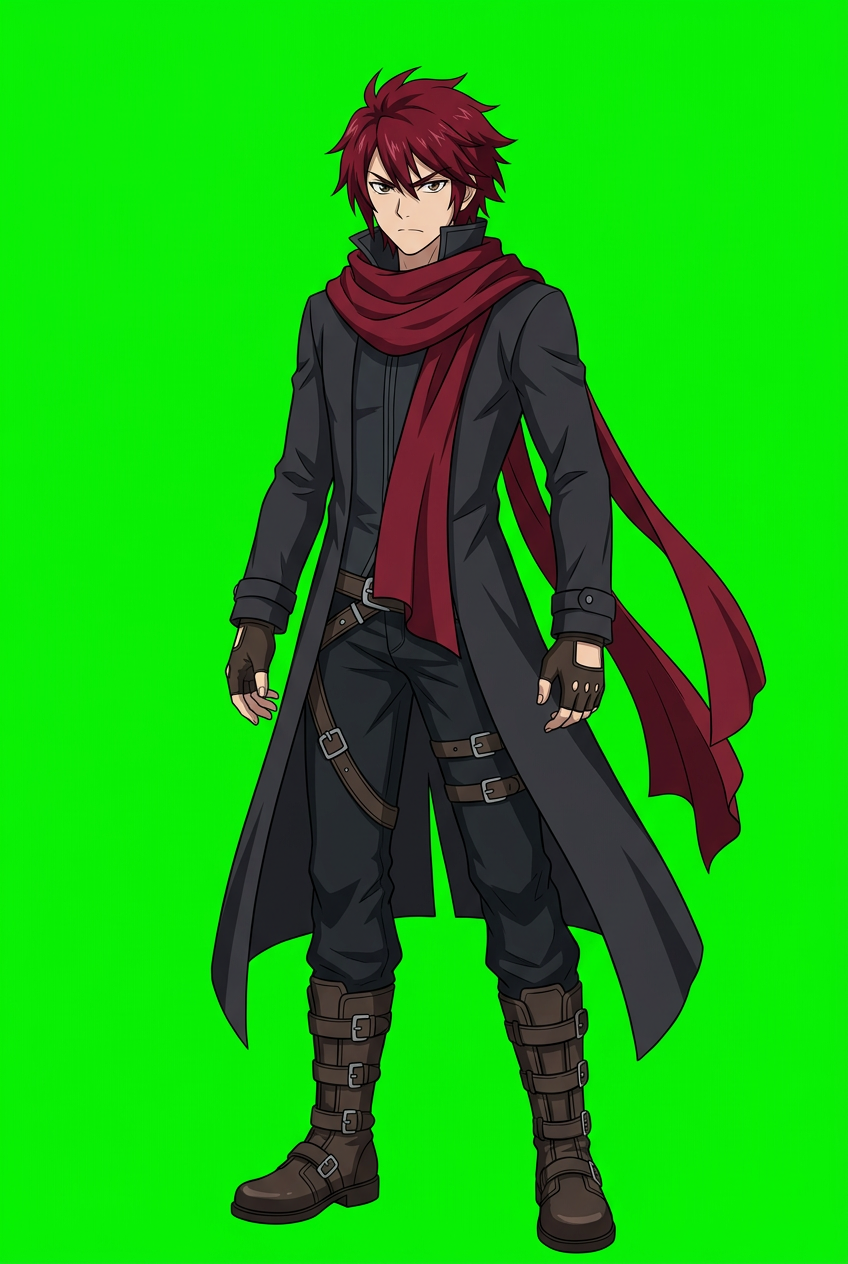
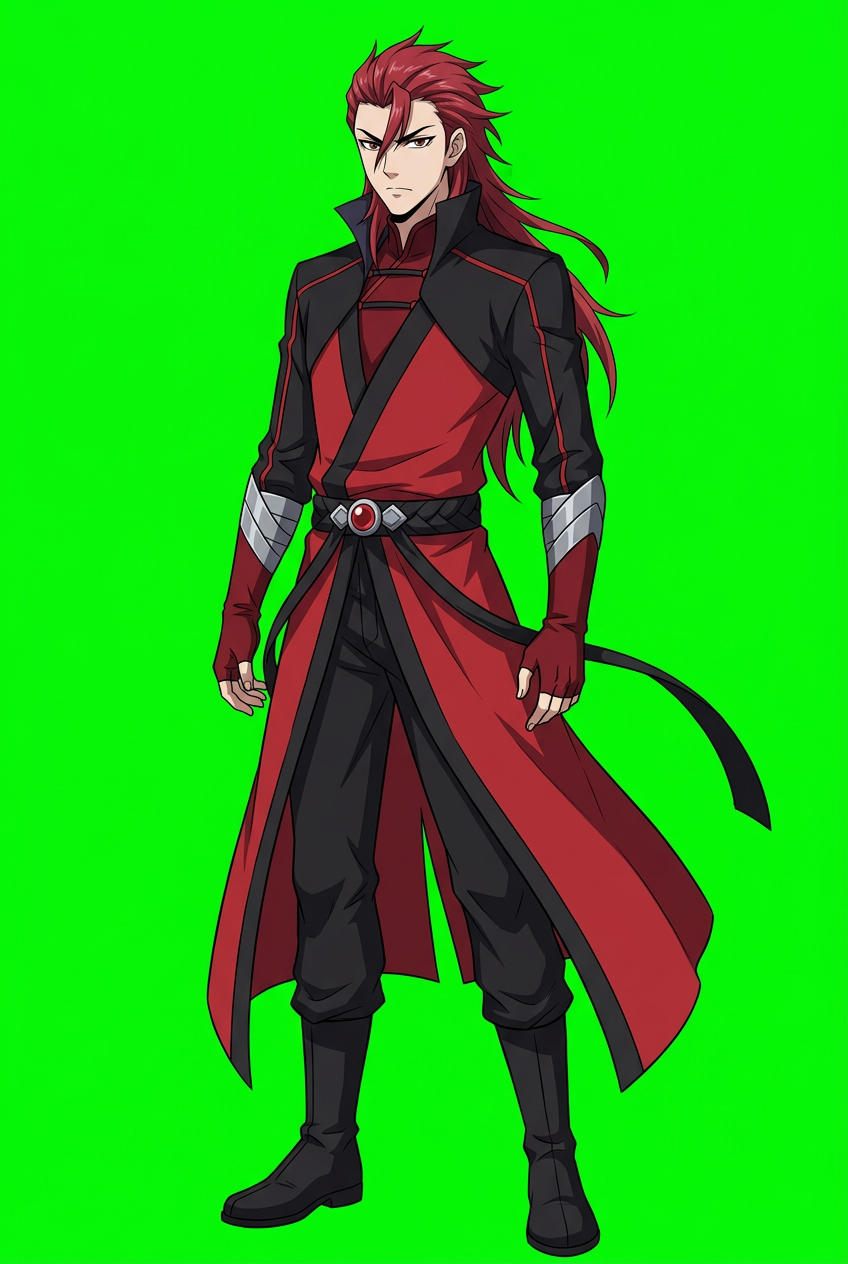
复核第3章: 吴昊按107话重画; 苏千/琥嘉/柳擎/白山/林修崖/韩月一致

Changed region(s): [[0.2453, 0.0309, 0.9198, 1.0]]

diff --git a/dev/design/漫画复核进度.md b/dev/design/漫画复核进度.md
@@ -69,6 +69,13 @@
 | 备注：美杜莎第2章人形装 | — | 88-08/09/19（refs_raw/r40） | 📌 漫画88话人形：红长发无冠、紫色短款紧身裙+白粉饰边、紫色过膝长靴、背后白色翅膀。做可玩角色分章服装时需与 B 版对比 |
 | 备注：小医仙 毒宗装 | — | 164-14（refs_raw/r40） | 📌 淡紫长发、浅粉长外套、黑色短裙+黑色过膝靴。做小医仙分章服装时使用 |
 | 备注：萧鼎 带翼 | — | 164-15 | 📌 萧鼎在164话带白色斗气翼（翅膀按用户决定做特效层） |
+| 苏千 | suqian | fandom 漫画图（105话） | ✅ 一致（灰色后梳发、八字胡、白蓝长老袍） |
+| 琥嘉 | hujia | fandom 漫画图 | ✅ 一致（橙红高马尾、蓝色外套白领、黑短裙黑长袜） |
+| 柳擎 | liuqing | fandom 漫画图（141话） | ✅ 一致（淡金发、白袍藏青外套） |
+| 白山 | baishan | fandom 漫画图（106话） | ✅ 一致（棕色长发、白色蓝边外套） |
+| 林修崖 | linxiuya | 119-03/04 | ✅ 一致（灰色长发、黑色毛领大衣、蓝色内衬） |
+| 韩月 | hanyue | 119-04 + fandom | ✅ 一致（白色长发、白色短款外套裙、黑领、黑长靴） |
+| 吴昊 | wuhao | 107-08/09（对白 Es Wu Hao… Ashura de Sangre） | ❌→已重画（原为黑大衣红围巾；漫画为红色后梳长发、黑红交叉前襟长外衣、红色手套、银色护臂、圆扣腰带+长黑飘带，无围巾） |
 
 ## 用户决定（2026-09-27）
 - 云山第二形态：选A——人物图不变，半血时身后冒出魂殿黑影（特效层），招式变强。
